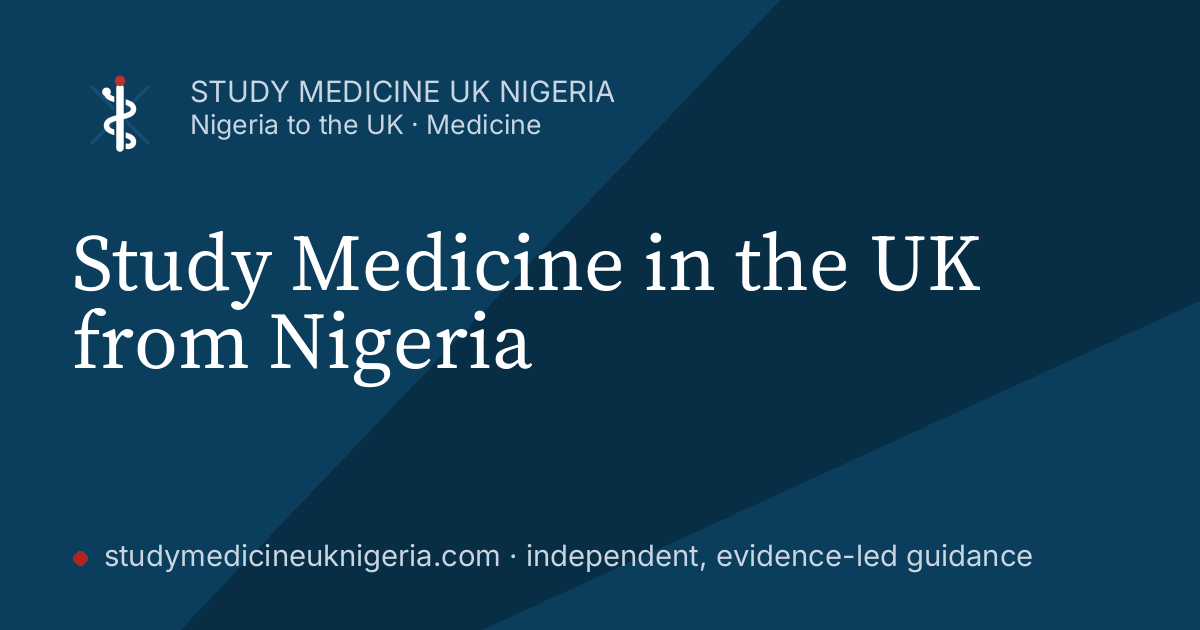
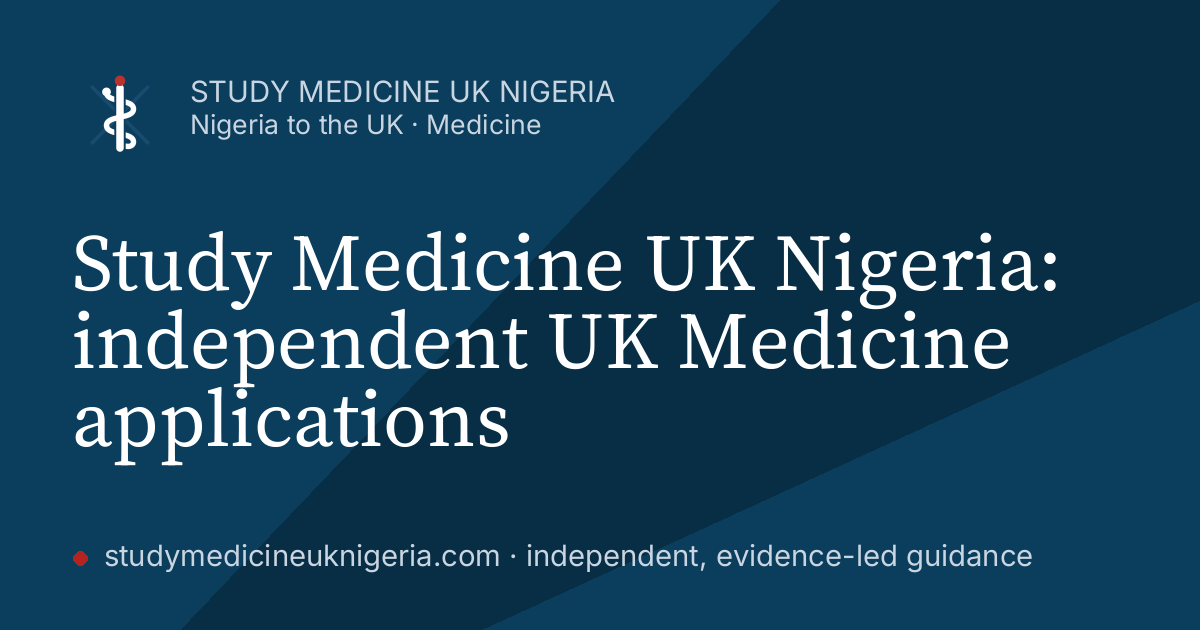
Stop the home page competing with the core guide for the core query
Home and /study-medicine-in-the-uk/from-nigeria both led with 'Study
Medicine in the UK from Nigeria'. The register assigns that query to the
core guide; home is now brand-first with its own H1 and links to the
guide in its first paragraph. The snippet test now fails whenever two
pages lead with the same title phrase.

Claude-Session: https://claude.ai/code/session_01RKptgjhxi9gVE1QUN9GnPX

Changed region(s): [[0.0617, 0.3619, 0.8942, 0.754]]

diff --git a/tests/Feature/PublicSeoTest.php b/tests/Feature/PublicSeoTest.php
@@ -19,7 +19,7 @@ class PublicSeoTest extends TestCase
 
     public function test_home_renders_with_canonical_robots_and_json_ld(): void
     {
-        $this->get('/')->assertOk()->assertSee('<link rel="canonical"', false)->assertSee('application/ld+json', false)->assertSee('Study Medicine in the UK from Nigeria');
+        $this->get('/')->assertOk()->assertSee('<link rel="canonical"', false)->assertSee('application/ld+json', false)->assertSee('<title>Study Medicine UK Nigeria: independent UK Medicine applications</title>', false)->assertSee('href="'.url('/study-medicine-in-the-uk/from-nigeria').'"', false);
     }
 
     public function test_every_medicine_page_shows_the_route_map_up_to_the_hub_and_on_to_the_next_step(): void
@@ -102,6 +102,7 @@ class PublicSeoTest extends TestCase
         // Fact-gated pages are out of the sitemap until verified but enter it unchanged, so they are held to the same limits now.
         $gated = collect(Route::getRoutes()->getRoutes())->filter(fn ($r) => isset($r->defaults['sitemap']['gate']))->map(fn ($r) => url($r->uri()))->all();
         $this->assertNotEmpty($gated);
+        $primary = [];
         foreach (array_unique(array_merge($m[1], $gated)) as $url) {
             $path = parse_url($url, PHP_URL_PATH) ?: '/';
             $html = $this->get($path)->assertOk()->getContent();
@@ -114,7 +115,11 @@ class PublicSeoTest extends TestCase
             $this->assertLessThanOrEqual(165, mb_strlen($desc), "$path description too long (".mb_strlen($desc).')');
             $this->assertGreaterThanOrEqual(100, mb_strlen($desc), "$path description too short: $desc");
             $this->assertSame(1, preg_match_all('#<h1[\s>]#', $html), "$path must have exactly one h1");
+            $primary[$path] = mb_strtolower(trim(preg_split('/[:|]/', $title)[0]));
         }
+        // Cannibalisation guard: two pages never lead with the same title phrase (one page per intent).
+        $dupes = array_filter(array_count_values($primary), fn ($n) => $n > 1);
+        $this->assertSame([], $dupes, 'pages competing for the same title phrase: '.implode(', ', array_keys($dupes)));
     }
 
     public function test_fact_gated_pages_enter_the_index_only_when_their_topics_are_verified(): void

diff --git a/resources/views/pages/home.blade.php b/resources/views/pages/home.blade.php
@@ -4,8 +4,8 @@
         <div class="container-site py-14 sm:py-20 lg:py-24 grid lg:grid-cols-12 gap-10 items-center">
             <div class="lg:col-span-7">
                 <p class="eyebrow mb-4"><span class="inline-block w-6 h-[2px] bg-nigeria-green align-middle mr-2"></span>Nigeria → United Kingdom · Medicine</p>
-                <h1 class="text-balance">Study Medicine in the UK from Nigeria</h1>
-                <p class="lede mt-6 max-w-[34rem]">Understand your options, check requirements, prepare your documents and apply online.</p>
+                <h1 class="text-balance">Your route from Nigeria to a UK medical school</h1>
+                <p class="lede mt-6 max-w-[34rem]">Understand your options, check requirements, prepare your documents and apply online. New to this? Start with <a href="{{ route('medicine.nigeria') }}">studying Medicine in the UK from Nigeria</a>.</p>
                 <div class="mt-8 flex flex-col sm:flex-row gap-3">
                     <a href="{{ route('apply.index') }}" class="btn btn-primary btn-lg">Apply Online</a>
                     <a href="{{ route('apply.eligibility') }}" class="btn btn-secondary btn-lg">Check your eligibility</a>

diff --git a/app/Http/Controllers/Public/PageController.php b/app/Http/Controllers/Public/PageController.php
@@ -14,7 +14,9 @@ class PageController extends Controller
 {
     public function home(): View
     {
-        $seo = Seo::make('Study Medicine in the UK from Nigeria',
+        // Brand-first: the core query ("study medicine in the UK from Nigeria") belongs to the core landing page
+        // (register C01); home is the entry point and must not compete with it.
+        $seo = Seo::make('Study Medicine UK Nigeria: independent UK Medicine applications',
             'Check published entry requirements for WAEC, NECO, A-levels and Nigerian degrees, compare verified fees and UK medical schools, and apply online with support.')
             ->canonical(route('home'))
             ->jsonLd([
